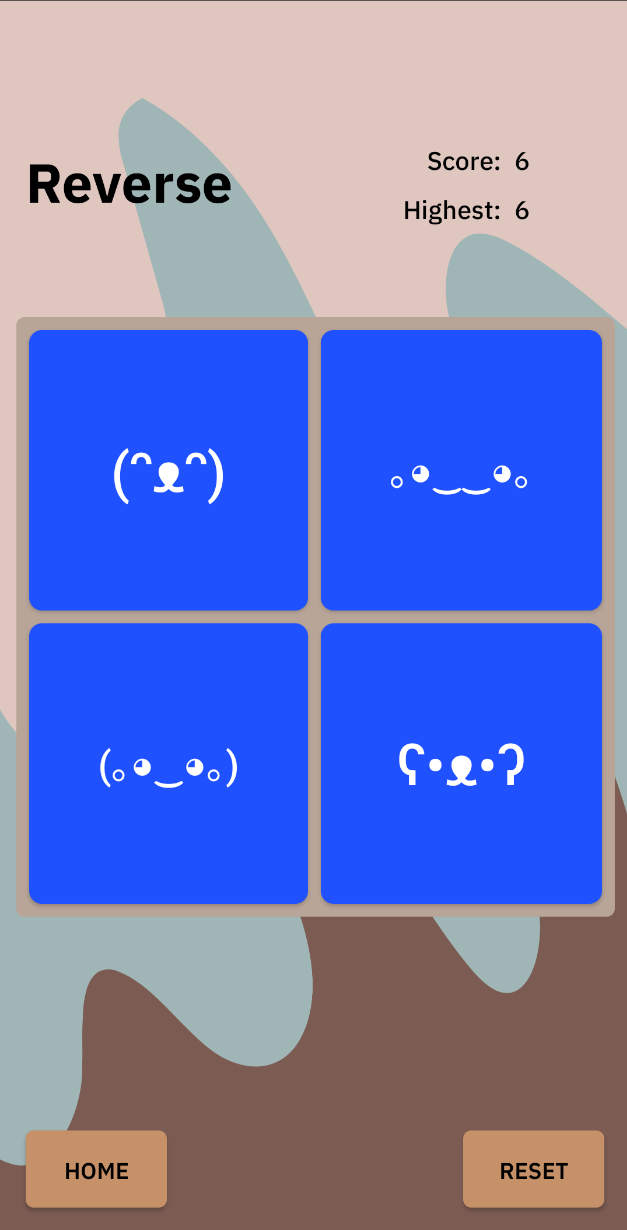
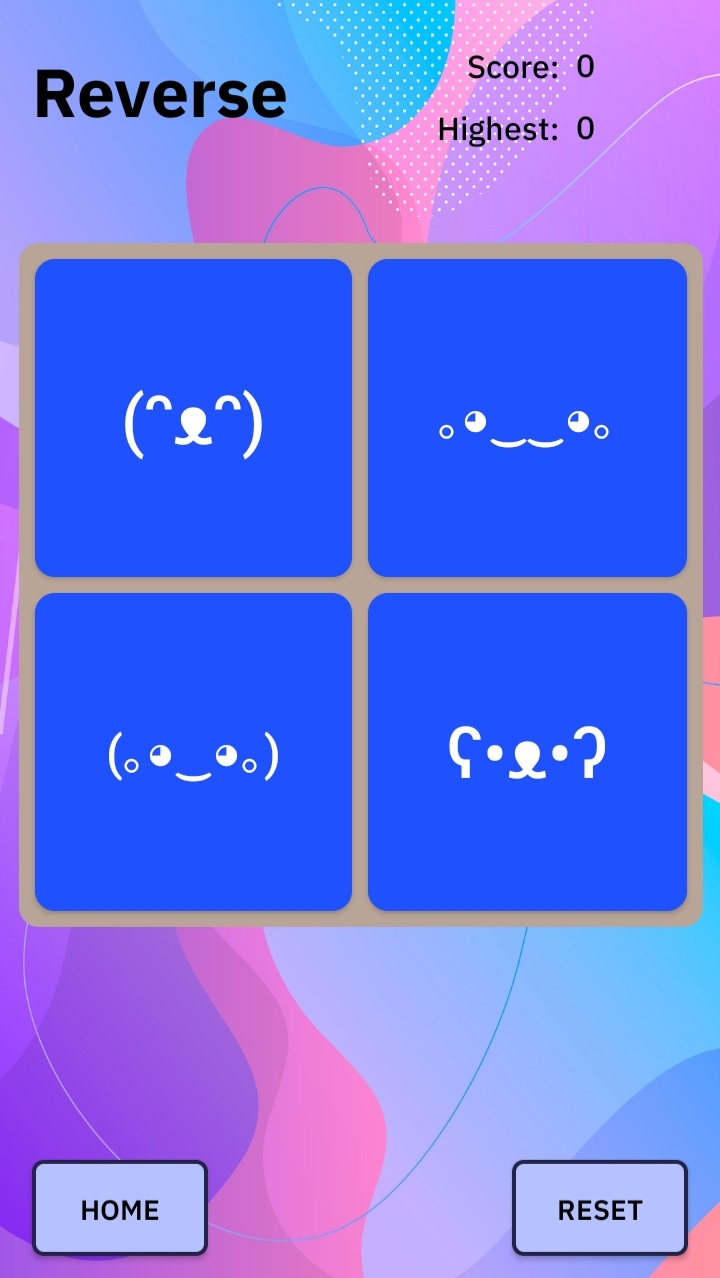
Added new screenshots and attributions to README.md

diff --git a/README.md b/README.md
@@ -15,7 +15,9 @@ Mad Grid consists of three game modes:
 - Reverse: similar to Classic mode, but the user is required to replicate the sequence in reverse order.
 - Messy: similar to Classic mode, but an entirely new sequence is generated following the successful completion of each level.
 
-Additionally, there is a guide page providing text descriptions and a video demonstration for each mode.
+Additional features include:
+- Guide page providing text descriptions and a video demonstration for each mode.
+- Adjustable sequence display speed (1.0x, 1.5x, 2.0x, 2.5x).
 
 ## Screenshots
 
@@ -27,3 +29,19 @@ Additionally, there is a guide page providing text descriptions and a video demo
 
 This app does not require any special permissions and no personal user data is collected.
 The app uses output devices only for audio (background music & sound effects).
+
+## Attributions
+
+Icon Images:
+- <a target="_blank" href="https://icons8.com/icon/16GEnHnaaLPk/grid-2">Grid 2</a> icon by <a target="_blank" href="https://icons8.com">Icons8</a> Grid 2 icon by Icons8
+- <a href="https://iconscout.com/icons/music-tune" target="_blank">Music Tune Icon</a> by <a href="https://iconscout.com/contributors/jemismali">Jemis Mali</a> on <a href="https://iconscout.com">IconScout</a>
+- <a href="https://iconscout.com/icons/audio" target="_blank">Audio Icon</a> by <a href="https://iconscout.com/contributors/AmruID">Amru ID</a> on <a href="https://iconscout.com">IconScout</a>
+- <a href="https://iconscout.com/icons/speed-optimization" target="_blank">Speed Optimization Icon</a> by <a href="https://iconscout.com/contributors/minimo">Neelpari Minimo</a> on <a href="https://iconscout.com">IconScout</a>
+- <a href="https://iconscout.com/icons/thumb-up" target="_blank">Thumb up Icon</a> by <a href="https://iconscout.com/contributors/google-inc">Google Inc.</a> on <a href="https://iconscout.com">IconScout</a>
+- <a href="https://iconscout.com/icons/github" target="_blank">Github Logo Icon</a> by <a href="https://iconscout.com/contributors/pixel-icons" target="_blank">Pixel Icons</a>
+- <a href="https://iconscout.com/icons/exclamation-mark" target="_blank">Exclamation-mark Icon</a> by <a href="https://iconscout.com/contributors/unicons" target="_blank">Unicons Font</a>
+
+Background images:
+- <a href="https://www.freepik.com/free-vector/mobile-wallpaper-with-fluid-shapes_4954397.htm#page=2&position=10&from_view=author">Image by coolvector</a> on Freepik
+- <a href="https://www.freepik.com/free-vector/mobile-wallpaper-with-fluid-shapes_4954390.htm#&position=4&from_view=author">Image by coolvector</a> on Freepik
+- <a href="https://www.freepik.com/free-vector/gradient-phone-background-with-circular-shapes_4917165.htm#page=2&position=18&from_view=author">Image by coolvector</a> on Freepik
